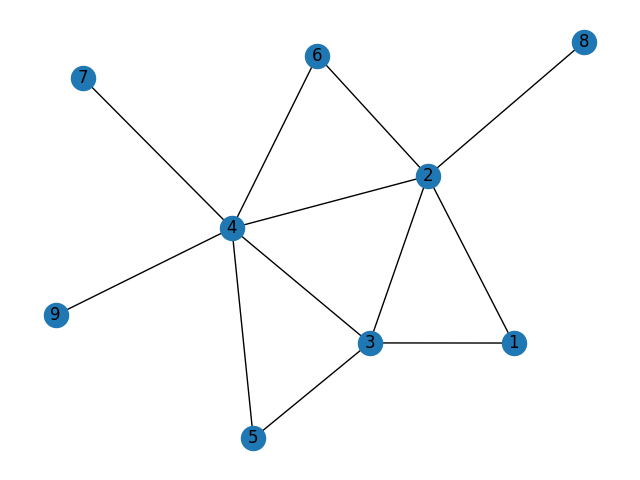
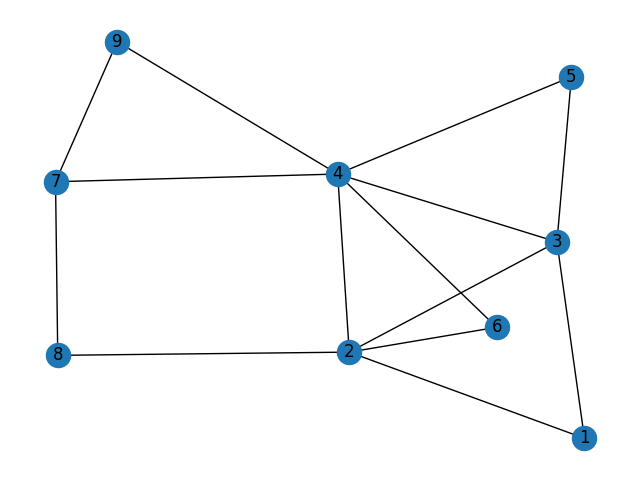
grafo9.py

diff --git a/grafo9.py b/grafo9.py
@@ -23,6 +23,8 @@ G.add_edge("4","6")
 G.add_edge("4","7")
 G.add_edge("2","8")
 G.add_edge("4","9")
+G.add_edge("7","8")
+G.add_edge("7","9")
 
 # Dibujamos el grafo y lo almacenamos
 nx.draw(G, with_labels = True)
